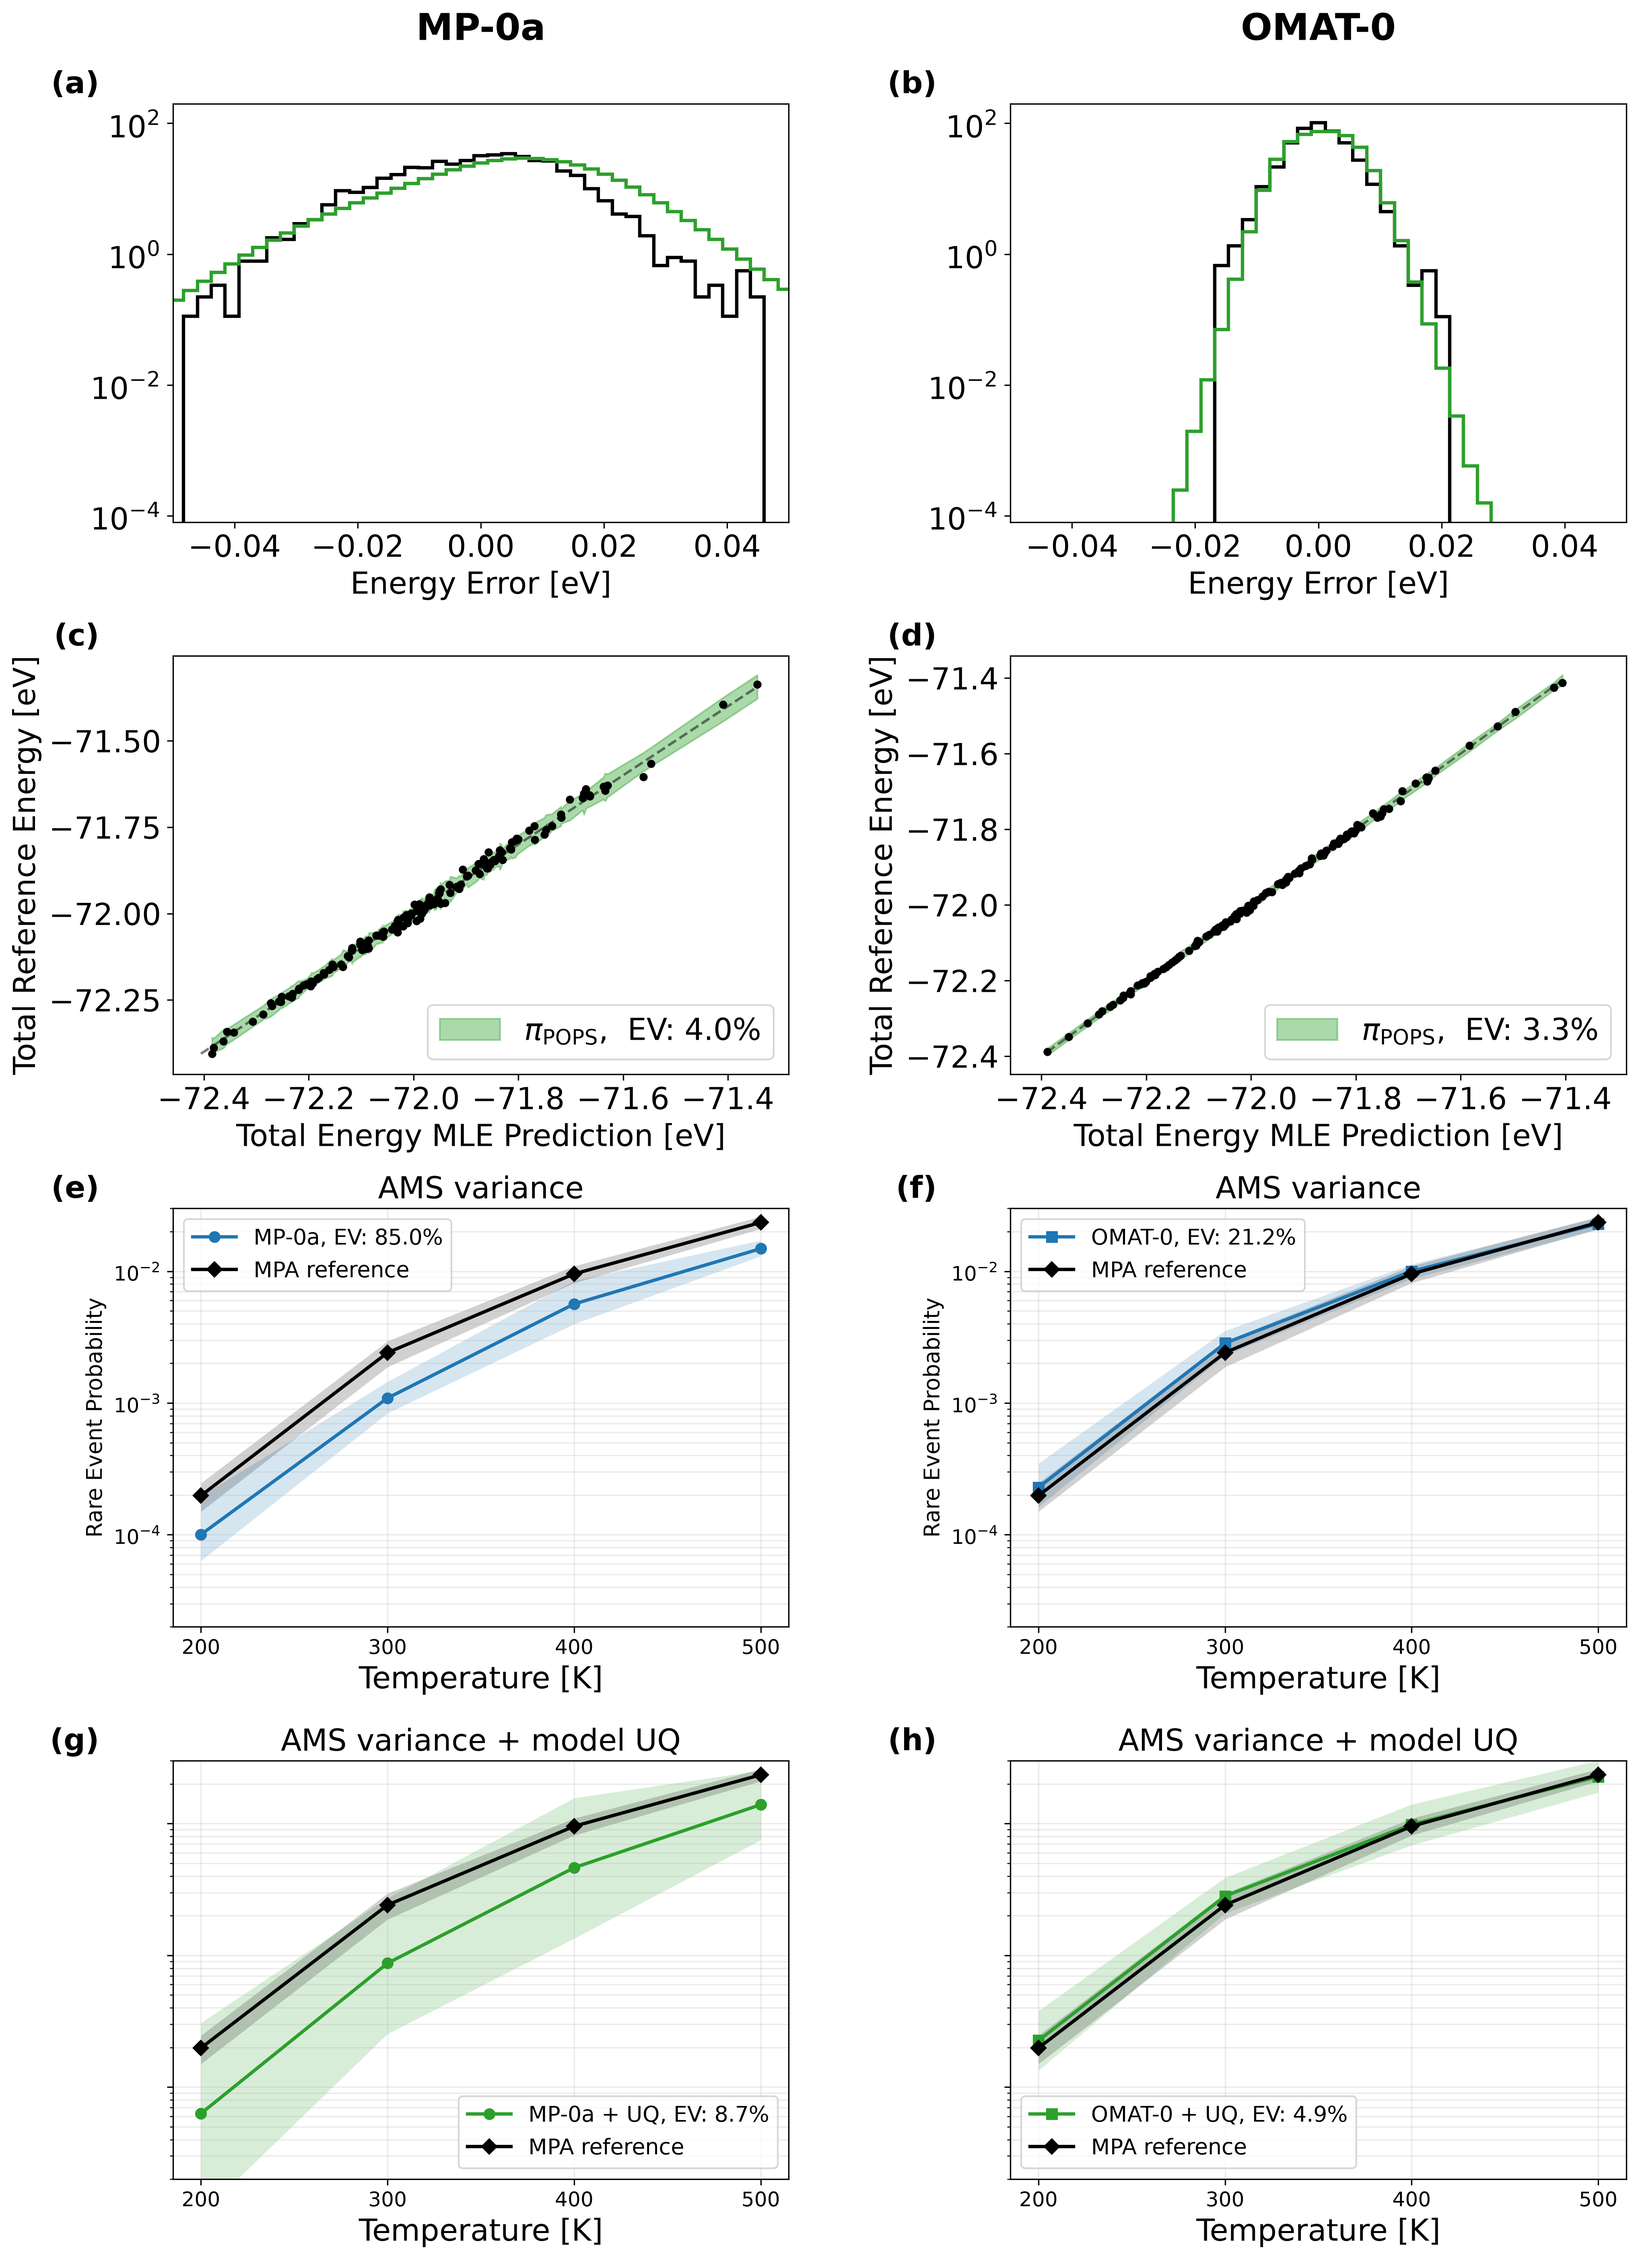
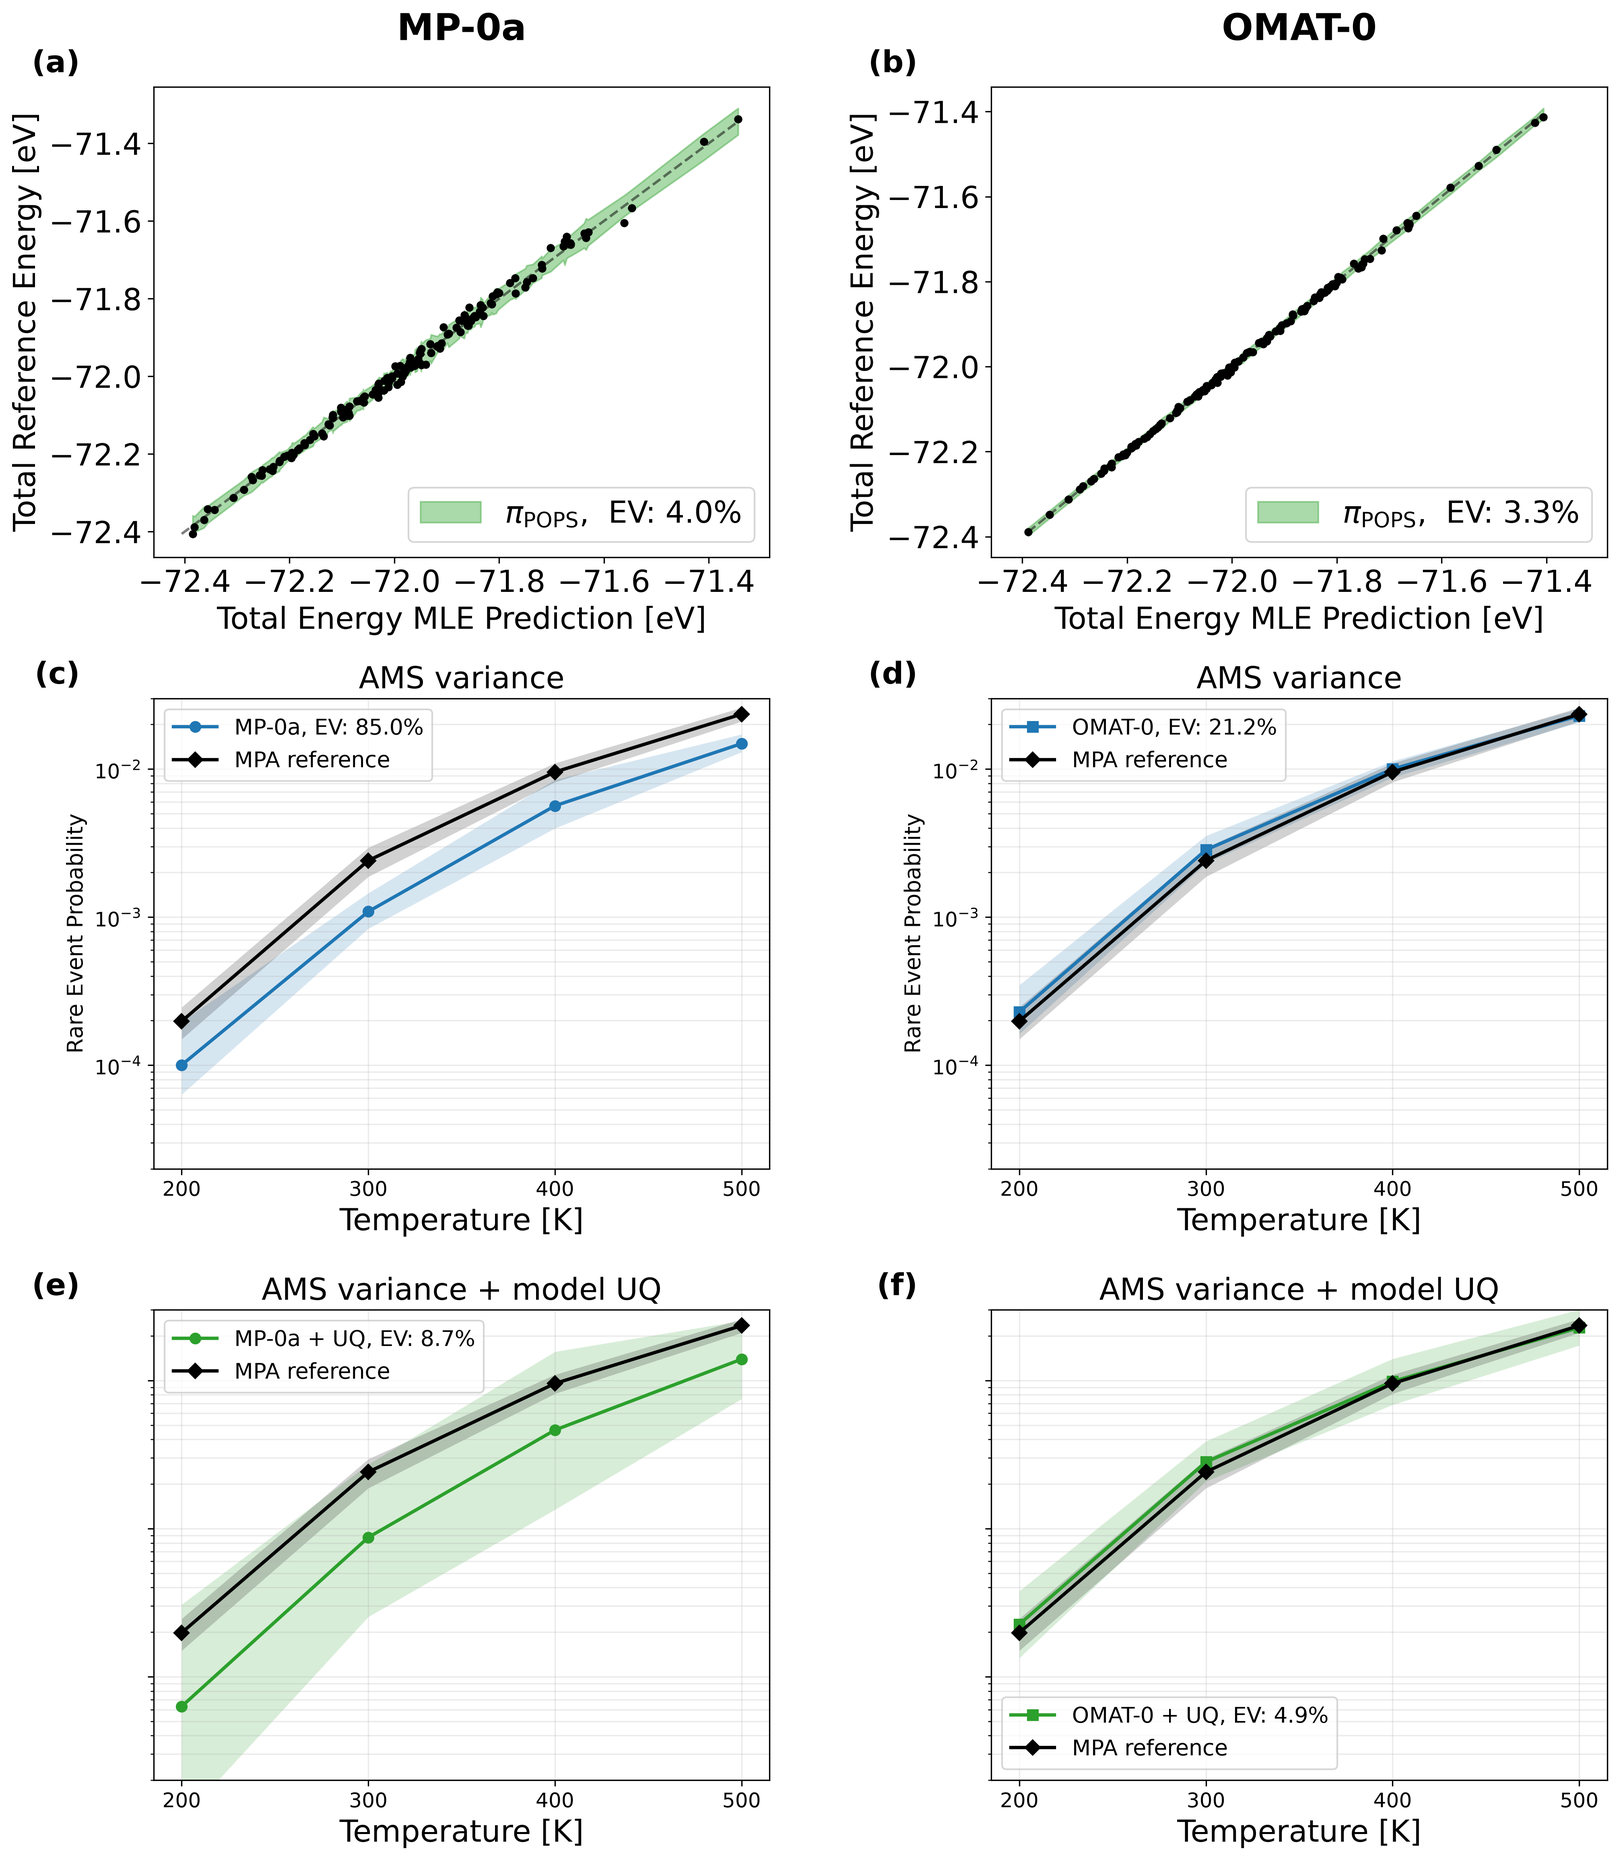
Remove histograms from portrait figure

diff --git a/scripts/AMS_butane/plots/plot_energy_probability.py b/scripts/AMS_butane/plots/plot_energy_probability.py
@@ -457,23 +457,25 @@ fig.savefig(
 )
 
 # Save the same panels in a portrait layout, grouped by model columns.
+# The two energy-error histograms remain in the landscape version only.
+fig.delaxes(axes[1, 0])
+fig.delaxes(axes[0, 0])
 vertical_grid = fig.add_gridspec(
-    4,
+    3,
     2,
     left=0.12,
     right=0.98,
     bottom=0.045,
     top=0.95,
     wspace=0.36,
-    hspace=0.32,
+    hspace=0.3,
 )
 vertical_axes = [
-    axes[1, 0], axes[0, 0],
     axes[1, 1], axes[0, 1],
     temperature_axes[0, 0], temperature_axes[1, 0],
     temperature_axes[0, 1], temperature_axes[1, 1],
 ]
-fig.set_size_inches(14, 19)
+fig.set_size_inches(14, 15.5)
 for panel_index, ax in enumerate(vertical_axes):
     ax.set_axes_locator(None)
     ax.set_position(vertical_grid[panel_index // 2, panel_index % 2].get_position(fig))
@@ -483,11 +485,7 @@ for ax in temperature_axes.flat:
     ax.tick_params(axis='x', labelbottom=True)
     ax.set_xlabel('Temperature [K]')
 
-axes[0, 0].set_title('')
-axes[1, 0].set_title('')
-axes[0, 0].set_ylabel('')
-axes[1, 0].set_ylabel('')
-for ax in [*axes.flat, *temperature_axes.flat]:
+for ax in fig.axes:
     for annotation in list(ax.texts):
         if annotation.get_text() in {'(a)', '(b)', '(c)', '(d)', '(e)', '(f)'}:
             annotation.remove()
@@ -505,10 +503,9 @@ for col, model_name in enumerate(('MP-0a', 'OMAT-0')):
     )
 
 panel_labels = {
-    axes[1, 0]: '(a)', axes[0, 0]: '(b)',
-    axes[1, 1]: '(c)', axes[0, 1]: '(d)',
-    temperature_axes[0, 0]: '(e)', temperature_axes[1, 0]: '(f)',
-    temperature_axes[0, 1]: '(g)', temperature_axes[1, 1]: '(h)',
+    axes[1, 1]: '(a)', axes[0, 1]: '(b)',
+    temperature_axes[0, 0]: '(c)', temperature_axes[1, 0]: '(d)',
+    temperature_axes[0, 1]: '(e)', temperature_axes[1, 1]: '(f)',
 }
 for ax, label in panel_labels.items():
     ax.text(
